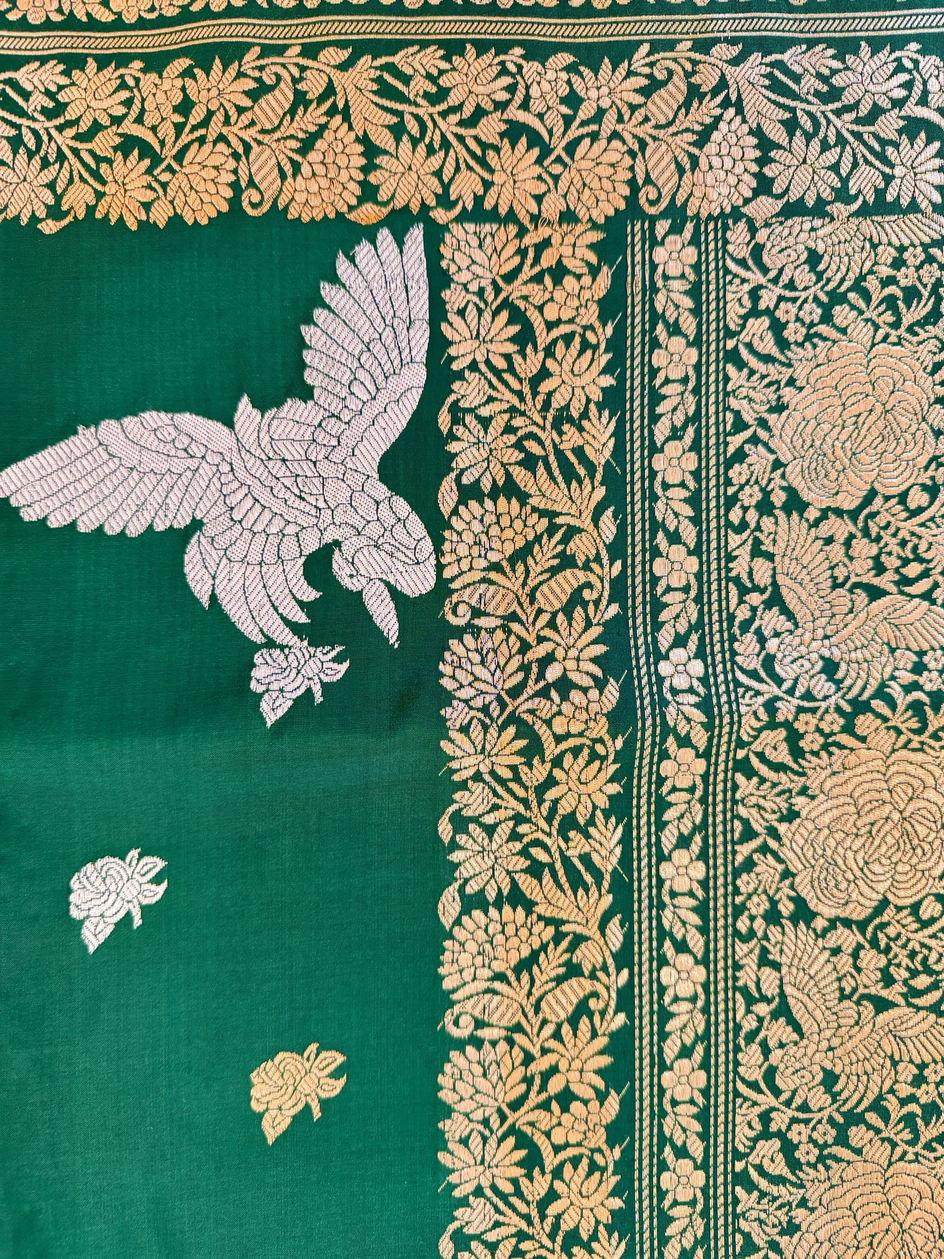
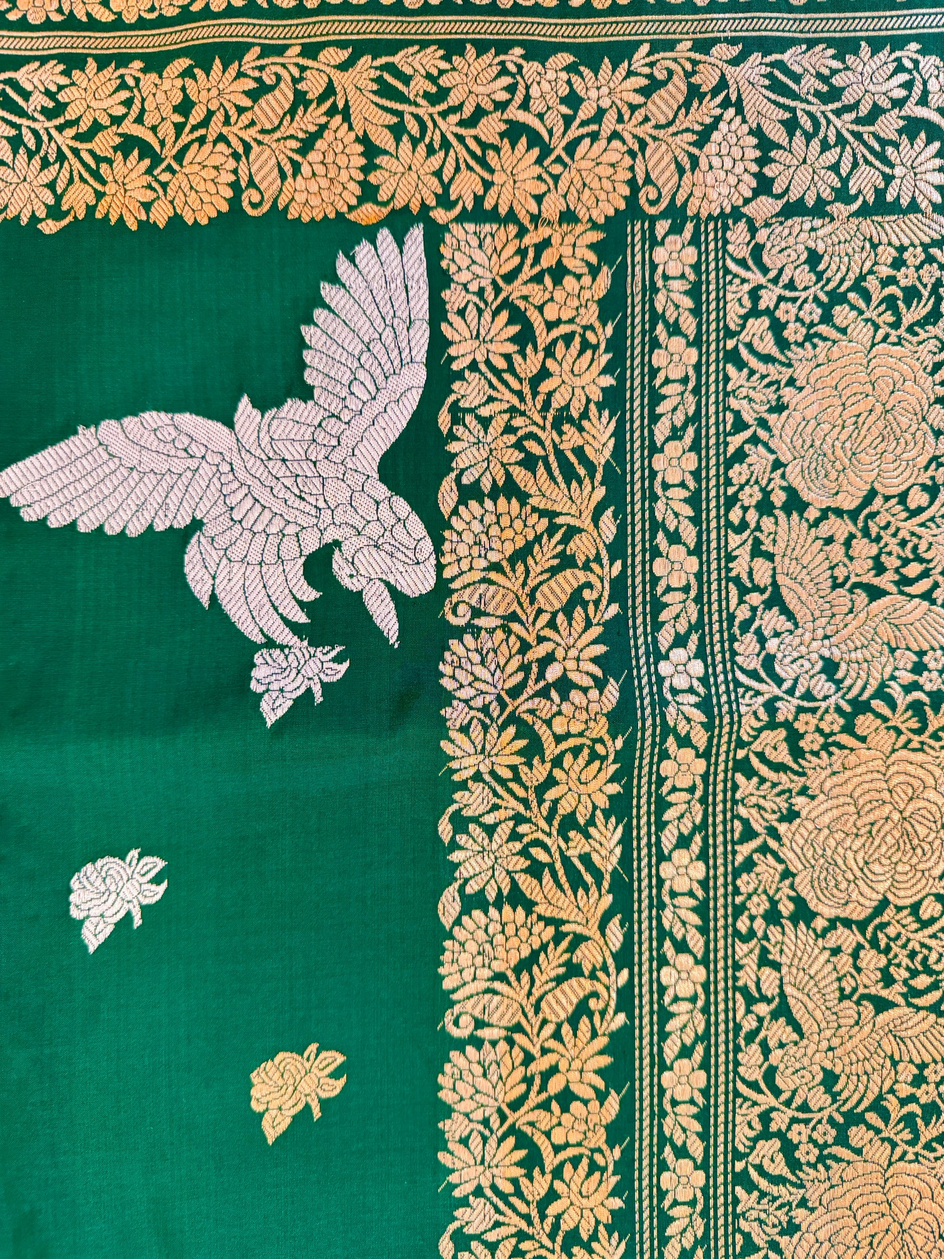
Launch Banarasi collection and refresh homepage hero

diff --git a/assets/css/styles.css b/assets/css/styles.css
@@ -100,14 +100,14 @@
 
 /* Bengal masthead: three linked editorial product tiles */
 .region-coming-board{position:relative;display:grid;place-items:center;isolation:isolate;background:#343216;color:#fff8e9}.region-coming-board:before{content:"";position:absolute;inset:0;z-index:-1;background:repeating-linear-gradient(90deg,transparent 0 9.5%,#d9b66d12 9.5% 10%),linear-gradient(135deg,#343216,#24230f)}.region-coming-board>div{max-width:24rem;padding:clamp(1rem,3vw,2.5rem);text-align:center}.region-coming-board p{margin:0 0 .55rem;color:#d9b66d;font-size:.52rem;font-weight:600;letter-spacing:.16em;text-transform:uppercase}.region-coming-board strong{display:block;font:clamp(1.5rem,3vw,3rem)/.95 var(--serif)}.region-coming-board small{display:block;margin-top:.75rem;color:#e8dcc4;font-size:.58rem;line-height:1.5;letter-spacing:.05em}.loom-line{position:absolute;width:22%;height:1px;background:#d9b66d66}.loom-line:after{content:"✦";position:absolute;top:50%;color:#d9b66d;transform:translateY(-52%);background:#343216;padding:.3rem}.loom-line.line-one{left:5%;top:28%}.loom-line.line-one:after{right:0}.loom-line.line-two{right:5%;bottom:28%}.loom-line.line-two:after{left:0}
-.bengal-feature-board{display:grid;grid-template-columns:repeat(3,1fr);gap:2px;background:#f5ead8}.bengal-feature-board a{position:relative;min-width:0;overflow:hidden;color:#fff8e9;text-decoration:none}.bengal-feature-board img{display:block;transition:scale .6s cubic-bezier(.2,.7,.2,1),filter .35s}.bengal-feature-board a:after{content:"";position:absolute;inset:0;background:linear-gradient(180deg,transparent 42%,#160d08c7);opacity:.72;transition:opacity .3s}.bengal-feature-board a:hover img,.bengal-feature-board a:focus-visible img{scale:1.045;filter:saturate(1.05)}.bengal-feature-board a:hover:after,.bengal-feature-board a:focus-visible:after{opacity:.92}.bengal-feature-board a:focus-visible{z-index:2;outline:3px solid #d9b66d;outline-offset:-3px}.bengal-feature-board span{position:absolute;z-index:2;left:clamp(.7rem,1.15vw,1.15rem);bottom:clamp(.7rem,1.15vw,1.15rem);max-width:calc(100% - 1.4rem);padding:0 0 .55rem;color:#fff8e9;font:clamp(.75rem,1vw,1rem)/1.12 var(--serif);letter-spacing:.02em;text-shadow:0 2px 12px #160d08}.bengal-feature-board span:after{content:"";position:absolute;left:0;bottom:0;width:2.4rem;height:1px;background:#d9b66d;transition:width .35s ease}.bengal-feature-board a:hover span:after,.bengal-feature-board a:focus-visible span:after{width:100%}.bengal-feature-board small{display:block;margin-bottom:.3rem;color:#f0cc7b;font:600 clamp(.42rem,.5vw,.5rem)/1 var(--sans);letter-spacing:.14em;text-transform:uppercase;text-shadow:0 1px 8px #160d08}
+.bengal-feature-board{display:grid;grid-template-columns:repeat(3,1fr);gap:2px;background:#f5ead8}.bengal-feature-board a{position:relative;min-width:0;overflow:hidden;color:#fff8e9;text-decoration:none}.bengal-feature-board img{display:block;transition:scale .6s cubic-bezier(.2,.7,.2,1),filter .35s}.bengal-feature-board a:after{content:"";position:absolute;right:0;bottom:0;left:0;height:34%;background:linear-gradient(180deg,transparent,#160d08a8);opacity:.62;transition:opacity .3s}.bengal-feature-board a:hover img,.bengal-feature-board a:focus-visible img{scale:1.045}.bengal-feature-board a:hover:after,.bengal-feature-board a:focus-visible:after{opacity:.72}.bengal-feature-board a:focus-visible{z-index:2;outline:3px solid #d9b66d;outline-offset:-3px}.bengal-feature-board span{position:absolute;z-index:2;left:clamp(.7rem,1.15vw,1.15rem);bottom:clamp(.7rem,1.15vw,1.15rem);max-width:calc(100% - 1.4rem);padding:.45rem .7rem .55rem;border-left:1px solid #d9b66d;background:linear-gradient(90deg,#21170ccb,#21170c70 72%,transparent);color:#fff8e9;font:clamp(.75rem,1vw,1rem)/1.12 var(--serif);letter-spacing:.02em;text-shadow:0 2px 12px #160d08}.bengal-feature-board span:after{content:"";position:absolute;left:.7rem;bottom:.22rem;width:2.4rem;height:1px;background:#d9b66d;transition:width .35s ease}.bengal-feature-board a:hover span:after,.bengal-feature-board a:focus-visible span:after{width:calc(100% - 1.4rem)}.bengal-feature-board small{display:block;margin-bottom:.3rem;color:#f0cc7b;font:600 clamp(.42rem,.5vw,.5rem)/1 var(--sans);letter-spacing:.14em;text-transform:uppercase;text-shadow:0 1px 8px #160d08}
 .bengal-feature-board.two-up{grid-template-columns:repeat(2,1fr)}
 @media(max-width:700px){.bengal-feature-board{aspect-ratio:1.35/1}.bengal-feature-board span{left:.55rem;right:.4rem;bottom:.55rem;max-width:none;padding:0 0 .42rem;font-size:.66rem}.bengal-feature-board small{font-size:.38rem}}
 
 /* Regional catalogue: isolated product cards */
 .product-sheet[data-layout="photos"] .photo-view{width:100%;height:100%;object-fit:cover;transform:none}.real-product .preview-badge{background:#f5ead8eb;color:#6d100b}
 .preview-section{padding-inline:max(var(--pad),calc((100vw - 1500px)/2))}.preview-section .preview-grid{grid-template-columns:repeat(4,minmax(0,1fr));gap:clamp(1.25rem,2.1vw,2.4rem)}.preview-card{display:block;min-width:0}.preview-card h3{margin:.85rem 0 .25rem;font-size:clamp(1.2rem,1.55vw,1.65rem);line-height:1.05}.preview-card p{line-height:1.5}
-.preview-image.product-sheet{isolation:isolate;aspect-ratio:4/5;overflow:hidden;background:#dfceb2;touch-action:pan-y}.preview-image.product-sheet:after{content:"";position:absolute;z-index:2;inset:0;border:1px solid #d9b66d;background:linear-gradient(180deg,#34321608,#3432161f);box-shadow:inset 0 0 0 5px #f5ead814;opacity:0;pointer-events:none;transition:opacity .28s ease}.product-sheet .sheet-view{position:absolute;inset:0;display:block;max-width:none;object-fit:fill;opacity:0;scale:1;transition:opacity .28s ease,scale .55s cubic-bezier(.2,.7,.2,1);will-change:opacity,scale}.product-sheet[data-layout="grid"] .sheet-view{width:300%;height:200%}.product-sheet[data-layout="strip"] .sheet-view{width:300%;height:100%}
+.preview-image.product-sheet{isolation:isolate;aspect-ratio:4/5;overflow:hidden;background:#dfceb2;touch-action:pan-y}.preview-image.product-sheet:after{content:"";position:absolute;z-index:2;inset:0;border:1px solid #b59053;box-shadow:inset 0 0 0 4px #f5ead81f;opacity:0;pointer-events:none;transition:opacity .28s ease}.product-sheet .sheet-view{position:absolute;inset:0;display:block;max-width:none;object-fit:fill;opacity:0;scale:1;transition:opacity .28s ease,scale .55s cubic-bezier(.2,.7,.2,1);will-change:opacity,scale}.product-sheet[data-layout="grid"] .sheet-view{width:300%;height:200%}.product-sheet[data-layout="strip"] .sheet-view{width:300%;height:100%}
 .product-sheet[data-row="0"] .sheet-view-0,.product-sheet[data-layout="strip"] .sheet-view-0{transform:translate(0,0)}.product-sheet[data-row="0"] .sheet-view-1,.product-sheet[data-layout="strip"] .sheet-view-1{transform:translate(-33.333333%,0)}.product-sheet[data-row="0"] .sheet-view-2,.product-sheet[data-layout="strip"] .sheet-view-2{transform:translate(-66.666667%,0)}.product-sheet[data-row="1"] .sheet-view-0{transform:translate(0,-50%)}.product-sheet[data-row="1"] .sheet-view-1{transform:translate(-33.333333%,-50%)}.product-sheet[data-row="1"] .sheet-view-2{transform:translate(-66.666667%,-50%)}
 .product-sheet .sheet-view.is-active{z-index:1;opacity:1}.preview-card:hover .preview-image.product-sheet:after,.preview-card:focus-visible .preview-image.product-sheet:after,.preview-card:focus-within .preview-image.product-sheet:after{opacity:1}.preview-card:hover .preview-image.product-sheet .sheet-view,.preview-card:focus-visible .preview-image.product-sheet .sheet-view,.preview-card:focus-within .preview-image.product-sheet .sheet-view{scale:1.028}.preview-badge{z-index:3}.preview-count{position:absolute;right:.75rem;bottom:.75rem;z-index:4;padding:.35rem .5rem;background:#f5ead8e8;color:#343216;font-size:.57rem;letter-spacing:.08em}.preview-arrows{position:absolute;inset:50% .65rem auto;z-index:5;display:flex;justify-content:space-between;transform:translateY(-50%);pointer-events:none}.preview-arrows button{display:grid;width:40px;height:40px;padding:0;border:1px solid #34321640;border-radius:50%;place-items:center;background:#f5ead8e8;color:#343216;font:1.55rem/1 var(--serif);box-shadow:0 4px 18px #28180c22;cursor:pointer;pointer-events:auto;opacity:0;transition:opacity .2s,background .2s,color .2s}.preview-image:hover .preview-arrows button,.preview-image:focus-within .preview-arrows button{opacity:1}.preview-arrows button:hover,.preview-arrows button:focus-visible{background:#343216;color:#fff8e9;outline:2px solid #d9b66d;outline-offset:2px}
 @media(hover:none){.preview-card:active .preview-image.product-sheet:after{opacity:1}.preview-card:active .preview-image.product-sheet .sheet-view{scale:1.02}}@media(max-width:1180px){.preview-section .preview-grid{grid-template-columns:repeat(3,minmax(0,1fr))}}@media(max-width:820px){.preview-section .preview-grid{grid-template-columns:repeat(2,minmax(0,1fr));gap:1.15rem}.preview-arrows button{width:44px;height:44px;opacity:1}}@media(max-width:480px){.preview-section{padding-inline:1rem}.preview-section .preview-grid{grid-template-columns:repeat(2,minmax(0,1fr));gap:1.25rem .75rem}.preview-card h3{font-size:1.05rem}.preview-card p{font-size:.66rem}.preview-badge{top:.45rem;left:.45rem;padding:.35rem .45rem}.preview-count{right:.45rem;bottom:.45rem}.preview-arrows{inset-inline:.35rem}.preview-arrows button{width:38px;height:38px}}
@@ -228,4 +228,85 @@
   .preview-section .preview-grid{grid-template-columns:1fr}
   .preview-card h3{font-size:1.35rem}
   .preview-card p{font-size:.76rem}
+}
+
+/* Homepage hero: colour-faithful Banarasi silk with an editorial glass panel. */
+.banarasi-home-hero{
+  isolation:isolate;
+  min-height:clamp(680px,calc(100svh - 166px),940px);
+  background:#7b0908;
+  overflow:hidden;
+}
+.banarasi-home-hero .heritage-art{inset:-1.5%;width:103%;height:103%}
+.banarasi-home-hero .heritage-art img{
+  width:100%;height:100%;object-fit:cover;object-position:center 53%;
+  filter:none!important;opacity:1;
+}
+.banarasi-home-hero .heritage-shade{
+  background:linear-gradient(90deg,rgba(28,10,7,.42) 0%,rgba(28,10,7,.1) 48%,rgba(28,10,7,.03) 72%),
+             linear-gradient(0deg,rgba(28,10,7,.22),transparent 35%);
+}
+.banarasi-home-hero .thread{opacity:.2}
+.banarasi-home-hero .heritage-copy{
+  width:min(650px,56vw);margin-left:var(--pad);padding:clamp(1.8rem,3.4vw,3.25rem);
+  border:1px solid rgba(255,236,199,.42);border-radius:2px;
+  background:linear-gradient(135deg,rgba(39,18,12,.84),rgba(76,18,14,.7));
+  color:#fff8e9;box-shadow:0 28px 70px rgba(34,7,4,.3);
+  -webkit-backdrop-filter:blur(13px) saturate(115%);backdrop-filter:blur(13px) saturate(115%);
+  clip-path:none;
+}
+.banarasi-home-hero .heritage-copy:before{
+  content:"";position:absolute;inset:12px;border:1px solid rgba(232,188,106,.22);pointer-events:none;
+}
+.banarasi-home-hero .hero-signature{display:flex;align-items:baseline;gap:.65rem;margin:0 0 .9rem;color:#fff7e7;font:clamp(1rem,1.45vw,1.25rem)/1 var(--serif);letter-spacing:.035em}
+.banarasi-home-hero .hero-signature span+span{padding-left:.65rem;border-left:1px solid rgba(240,200,126,.55);color:#f0c87e;font-size:.9em}
+.banarasi-home-hero .heritage-copy .eyebrow{color:#f0c87e}
+.banarasi-home-hero .heritage-copy h1{color:#fff9eb;text-shadow:0 2px 22px rgba(24,5,3,.2)}
+.banarasi-home-hero .heritage-copy h1 em{color:#f2c676}
+.banarasi-home-hero .heritage-copy>p:not(.eyebrow){max-width:520px;color:#f9edd9}
+.banarasi-home-hero .hero-actions{display:flex;flex-flow:row wrap;gap:.8rem;margin-top:1.8rem}
+.banarasi-home-hero .hero-cta{
+  position:relative;display:inline-flex;min-height:52px;align-items:center;justify-content:space-between;gap:1.2rem;
+  padding:.9rem 1.15rem;overflow:hidden;border:1px solid rgba(255,239,205,.75);
+  color:#fff8e9;text-decoration:none;font:600 .67rem var(--sans);letter-spacing:.11em;text-transform:uppercase;
+  text-shadow:none;transition:color .3s ease,border-color .3s ease,transform .3s ease,box-shadow .3s ease;
+}
+.banarasi-home-hero .hero-cta span,.banarasi-home-hero .hero-cta i{position:relative;z-index:2}
+.banarasi-home-hero .hero-cta i{font-style:normal;font-size:1.05rem;transition:transform .3s ease}
+.banarasi-home-hero .hero-cta:before{
+  content:"";position:absolute;inset:-2px;background:linear-gradient(105deg,transparent 18%,rgba(255,255,255,.48) 47%,transparent 72%);
+  transform:translateX(-130%) skewX(-16deg);transition:transform .7s cubic-bezier(.2,.7,.2,1);
+}
+.banarasi-home-hero .hero-cta-primary{border-color:#f3d9a4;background:#f3d9a4;color:#45100d;box-shadow:0 10px 30px rgba(30,4,2,.22)}
+.banarasi-home-hero .hero-cta-secondary{background:rgba(255,248,233,.07)}
+.banarasi-home-hero .hero-cta:hover,.banarasi-home-hero .hero-cta:focus-visible{transform:translateY(-3px);box-shadow:0 14px 32px rgba(30,4,2,.3);outline:2px solid #fff8e9;outline-offset:3px}
+.banarasi-home-hero .hero-cta:hover:before,.banarasi-home-hero .hero-cta:focus-visible:before{transform:translateX(130%) skewX(-16deg)}
+.banarasi-home-hero .hero-cta:hover i,.banarasi-home-hero .hero-cta:focus-visible i{transform:translate(3px,2px)}
+.banarasi-home-hero .hero-cta-secondary:hover,.banarasi-home-hero .hero-cta-secondary:focus-visible{background:#fff8e9;color:#45100d}
+.banarasi-home-hero .scroll-cue{color:#fff8e9;text-shadow:0 1px 8px rgba(30,4,2,.7)}
+.banarasi-home-hero .scroll-cue i{background:#f2c676}
+
+@media(max-width:900px){
+  .banarasi-home-hero{min-height:calc(100svh - 86px);padding:clamp(1rem,4vw,2rem) var(--pad) clamp(2.4rem,7vw,4rem);align-items:end}
+  .banarasi-home-hero .heritage-art{inset:0;width:100%;height:100%;transform:none!important}
+  .banarasi-home-hero .heritage-art img{object-position:42% center}
+  .banarasi-home-hero .heritage-shade{background:linear-gradient(0deg,rgba(29,8,5,.6) 0%,rgba(29,8,5,.08) 74%)}
+  .banarasi-home-hero .heritage-copy{width:min(680px,100%);margin:0;padding:clamp(1.55rem,5vw,2.5rem);background:linear-gradient(135deg,rgba(39,18,12,.89),rgba(76,18,14,.79));clip-path:none}
+  .banarasi-home-hero .heritage-copy h1{font-size:clamp(3.5rem,10vw,6rem)}
+  .banarasi-home-hero .scroll-cue{display:none}
+}
+@media(max-width:560px){
+  .banarasi-home-hero{min-height:calc(100svh - 86px);padding:1rem var(--pad) max(1.25rem,env(safe-area-inset-bottom))}
+  .banarasi-home-hero .heritage-art img{object-position:39% center}
+  .banarasi-home-hero .heritage-copy{padding:1.5rem 1.25rem 1.3rem}
+  .banarasi-home-hero .heritage-copy:before{inset:8px}
+  .banarasi-home-hero .hero-signature{margin-bottom:.72rem;font-size:1rem}
+  .banarasi-home-hero .heritage-copy h1{font-size:clamp(3rem,14vw,4.35rem);line-height:.88}
+  .banarasi-home-hero .heritage-copy>p:not(.eyebrow){font-size:.82rem;line-height:1.55}
+  .banarasi-home-hero .hero-actions{display:grid;grid-template-columns:1fr;margin-top:1.25rem}
+  .banarasi-home-hero .hero-cta{width:100%;min-height:50px}
+}
+@media(prefers-reduced-motion:reduce){
+  .banarasi-home-hero .heritage-art{transform:none!important}
+  .banarasi-home-hero .hero-cta,.banarasi-home-hero .hero-cta:before,.banarasi-home-hero .hero-cta i{transition:none}
 }

diff --git a/collections/region-page.js b/collections/region-page.js
@@ -14,7 +14,7 @@ const banarasiProduct=(id,name,design,colors,count)=>({
   details:`Pure silk · ${colors.join(', ')} · GI-tagged Banaras Brocades and Sarees`,
   images:Array.from({length:count},(_,index)=>{
     const number=String(index+1).padStart(2,'0');
-    return {card:`${P}banarasi/${id}/${number}-large.jpg?v=3`,large:`${P}banarasi/${id}/${number}-large.jpg?v=3`};
+    return {card:`${P}banarasi/${id}/${number}-large.jpg?v=4`,large:`${P}banarasi/${id}/${number}-large.jpg?v=4`};
   })
 });
 const regionPages={
@@ -71,7 +71,7 @@ categoryStories.maheshwari={maheshwari:editorial('Maheshwar · Madhya Pradesh','
 const key=document.body.dataset.region,info=regionPages[key],main=document.querySelector('#main-content');
 if(info&&main){
   const panelStyle=info.panel==null?'':`style="width:300%;max-width:none;transform:translateX(-${info.panel*33.333}%);object-fit:cover"`;
-  const featureSets={bengal:[['DHA-003','Dhaniakhali','Fish Motif','/assets/images/products/dhaniakhali/DHA-003/01-card.jpg'],['DHA-005','Dhaniakhali','Ikat Border','/assets/images/products/dhaniakhali/DHA-005/01-card.jpg'],['DHA-007','Dhaniakhali','Traditional','/assets/images/products/dhaniakhali/DHA-007/01-card.jpg']],banarasi:[['BAN-001','Banarasi','Traditional · Red','/assets/images/products/banarasi/BAN-001/01-large.jpg?v=3'],['BAN-002','Banarasi','Traditional · Emerald Green','/assets/images/products/banarasi/BAN-002/01-large.jpg?v=3']]},mastFeatures=featureSets[key];
+  const featureSets={bengal:[['DHA-003','Dhaniakhali','Fish Motif','/assets/images/products/dhaniakhali/DHA-003/01-card.jpg'],['DHA-005','Dhaniakhali','Ikat Border','/assets/images/products/dhaniakhali/DHA-005/01-card.jpg'],['DHA-007','Dhaniakhali','Traditional','/assets/images/products/dhaniakhali/DHA-007/01-card.jpg']],banarasi:[['BAN-001','Banarasi','Traditional · Red','/assets/images/products/banarasi/BAN-001/01-large.jpg?v=4'],['BAN-002','Banarasi','Traditional · Emerald Green','/assets/images/products/banarasi/BAN-002/01-large.jpg?v=4']]},mastFeatures=featureSets[key];
   const mastVisual=mastFeatures?`<div class="region-board bengal-feature-board${mastFeatures.length===2?' two-up':''}" aria-label="Featured ${info.title} sarees">${mastFeatures.map(([id,weave,label,image])=>`<a href="#${info.types[0][1]}" data-feature-product="${id}" aria-label="View ${label} ${weave}, ${id}"><img src="${image}" alt="${label} ${weave} saree"><span><small>${weave}</small>${label}</span></a>`).join('')}</div>`:`<div class="region-board region-coming-board" aria-label="${info.title} collection in preparation"><span class="loom-line line-one"></span><span class="loom-line line-two"></span><div><p>In preparation</p><strong>New pieces,<br>thoughtfully chosen.</strong><small>Real product photography will arrive with the collection.</small></div></div>`;
   const areaFilters=info.groups?`<div class="filter-level" data-area-filters><p>1 · Choose an area</p><div><button data-area="all" aria-pressed="true">All Bengal</button>${info.groups.map(([name,slug])=>`<button data-area="${slug}" aria-pressed="false">${name}</button>`).join('')}</div></div>`:'';
   const typeFilters=`<div class="filter-level" data-type-filters><p>${info.groups?'2 · Choose a weave':'Filter by weave'}</p><div><a href="#all" data-filter="all" data-area="all">All ${info.title.replace(' Handloom','')}</a>${info.types.filter(([,slug])=>slug!=='all').map(([name,slug,area])=>`<a id="filter-${slug}" href="#${slug}" data-filter="${slug}" data-area="${area||'all'}">${name}</a>`).join('')}</div></div>`;

diff --git a/index.html b/index.html
@@ -8,8 +8,8 @@
   <link rel="preconnect" href="https://fonts.googleapis.com">
   <link rel="preconnect" href="https://fonts.gstatic.com" crossorigin>
   <link href="https://fonts.googleapis.com/css2?family=DM+Sans:wght@400;500;600&family=Italiana&display=swap" rel="stylesheet">
-  <link rel="stylesheet" href="assets/css/styles.css?v=20260915-28">
-  <script src="assets/js/main.js?v=20260915-28" defer></script>
+  <link rel="stylesheet" href="assets/css/styles.css?v=20260916-34">
+  <script src="assets/js/main.js?v=20260916-34" defer></script>
 </head>
 <body>
   <a class="skip-link" href="#main-content">Skip to content</a>
@@ -22,15 +22,16 @@
   <div class="value-tags" aria-label="Kiranlata values"><span>Handloom</span><span>Natural cotton &amp; silk</span><span>Never synthetics</span><span>New York</span></div>
 
   <main id="main-content">
-    <section class="heritage-hero" data-parallax-scene>
-      <div class="heritage-art" data-layer="1"><img src="assets/images/story/weaving-village.png" alt="Illustrated village weaving courtyard where artisans work at traditional handlooms"></div>
+    <section class="heritage-hero banarasi-home-hero" data-parallax-scene>
+      <div class="heritage-art" data-layer="1"><img src="assets/images/branding/kiranlata-hero-banarasi.jpg?v=1" alt="Red pure-silk Banarasi saree with an intricate floral brocade border"></div>
       <div class="heritage-shade"></div>
       <div class="thread thread-one" data-layer="3"></div><div class="thread thread-two" data-layer="4"></div>
       <div class="heritage-copy reveal">
+        <p class="hero-signature"><span>Kiranlata</span><span lang="bn">কিরণলতা</span></p>
         <p class="eyebrow">From the looms of India &amp; Bangladesh · To New York</p>
         <h1>A way of life,<br><em>woven in six yards.</em></h1>
         <p>Kiranlata brings distinctive handloom sarees—and the human stories within them—to women across the United States.</p>
-        <div class="hero-actions"><a class="button primary" href="#collections">Shop the collection <span>↘</span></a><a class="text-link" href="/history.html">Explore the heritage</a></div>
+        <div class="hero-actions"><a class="hero-cta hero-cta-primary" href="#collections"><span>Shop the collection</span><i aria-hidden="true">↘</i></a><a class="hero-cta hero-cta-secondary" href="/history.html"><span>Explore the heritage</span><i aria-hidden="true">→</i></a></div>
       </div>
       <div class="heritage-seal" data-layer="5"><span>HANDLOOM</span><b>✦</b><span>NO SYNTHETICS</span></div>
       <a class="scroll-cue" href="#promise">Follow the thread <i></i></a>

diff --git a/collections/south-india.html b/collections/south-india.html
@@ -1,1 +1,1 @@
-<!doctype html><html lang="en"><head><meta charset="UTF-8"><meta name="viewport" content="width=device-width,initial-scale=1"><title>South Indian Handloom | Kiranlata</title><link rel="icon" href="/assets/images/branding/kiranlata-logo.svg" type="image/svg+xml"><link rel="preconnect" href="https://fonts.googleapis.com"><link rel="preconnect" href="https://fonts.gstatic.com" crossorigin><link href="https://fonts.googleapis.com/css2?family=DM+Sans:wght@400;500;600&family=Italiana&display=swap" rel="stylesheet"><link rel="stylesheet" href="/assets/css/styles.css?v=20260915-29"><script src="/assets/js/main.js?v=20260915-29" defer></script><script src="/collections/region-page.js?v=20260915-29" defer></script></head><body data-region="south-india"><a class="skip-link" href="#main-content">Skip to content</a><header class="site-header"></header><main id="main-content" class="region-page"></main></body></html>
+<!doctype html><html lang="en"><head><meta charset="UTF-8"><meta name="viewport" content="width=device-width,initial-scale=1"><title>South Indian Handloom | Kiranlata</title><link rel="icon" href="/assets/images/branding/kiranlata-logo.svg" type="image/svg+xml"><link rel="preconnect" href="https://fonts.googleapis.com"><link rel="preconnect" href="https://fonts.gstatic.com" crossorigin><link href="https://fonts.googleapis.com/css2?family=DM+Sans:wght@400;500;600&family=Italiana&display=swap" rel="stylesheet"><link rel="stylesheet" href="/assets/css/styles.css?v=20260915-30"><script src="/assets/js/main.js?v=20260915-30" defer></script><script src="/collections/region-page.js?v=20260915-30" defer></script></head><body data-region="south-india"><a class="skip-link" href="#main-content">Skip to content</a><header class="site-header"></header><main id="main-content" class="region-page"></main></body></html>

diff --git a/collections/kanchipuram.html b/collections/kanchipuram.html
@@ -1,1 +1,1 @@
-<!doctype html><html lang="en"><head><meta charset="UTF-8"><meta name="viewport" content="width=device-width,initial-scale=1"><title>Kanchipuram | Kiranlata</title><link rel="icon" href="/assets/images/branding/kiranlata-logo.svg" type="image/svg+xml"><link rel="preconnect" href="https://fonts.googleapis.com"><link rel="preconnect" href="https://fonts.gstatic.com" crossorigin><link href="https://fonts.googleapis.com/css2?family=DM+Sans:wght@400;500;600&family=Italiana&display=swap" rel="stylesheet"><link rel="stylesheet" href="/assets/css/styles.css?v=20260915-29"><script src="/assets/js/main.js?v=20260915-29" defer></script><script src="/collections/region-page.js?v=20260915-29" defer></script></head><body data-region="kanchipuram"><a class="skip-link" href="#main-content">Skip to content</a><header class="site-header"></header><main id="main-content" class="region-page"></main></body></html>
+<!doctype html><html lang="en"><head><meta charset="UTF-8"><meta name="viewport" content="width=device-width,initial-scale=1"><title>Kanchipuram | Kiranlata</title><link rel="icon" href="/assets/images/branding/kiranlata-logo.svg" type="image/svg+xml"><link rel="preconnect" href="https://fonts.googleapis.com"><link rel="preconnect" href="https://fonts.gstatic.com" crossorigin><link href="https://fonts.googleapis.com/css2?family=DM+Sans:wght@400;500;600&family=Italiana&display=swap" rel="stylesheet"><link rel="stylesheet" href="/assets/css/styles.css?v=20260915-30"><script src="/assets/js/main.js?v=20260915-30" defer></script><script src="/collections/region-page.js?v=20260915-30" defer></script></head><body data-region="kanchipuram"><a class="skip-link" href="#main-content">Skip to content</a><header class="site-header"></header><main id="main-content" class="region-page"></main></body></html>

diff --git a/collections/bengal.html b/collections/bengal.html
@@ -1,1 +1,1 @@
-<!doctype html><html lang="en"><head><meta charset="UTF-8"><meta name="viewport" content="width=device-width,initial-scale=1"><title>Bengal Handloom | Kiranlata</title><link rel="icon" href="/assets/images/branding/kiranlata-logo.svg" type="image/svg+xml"><link rel="preconnect" href="https://fonts.googleapis.com"><link rel="preconnect" href="https://fonts.gstatic.com" crossorigin><link href="https://fonts.googleapis.com/css2?family=DM+Sans:wght@400;500;600&family=Italiana&display=swap" rel="stylesheet"><link rel="stylesheet" href="/assets/css/styles.css?v=20260915-29"><script src="/assets/js/main.js?v=20260915-29" defer></script><script src="/collections/region-page.js?v=20260915-29" defer></script></head><body data-region="bengal"><a class="skip-link" href="#main-content">Skip to content</a><header class="site-header"></header><main id="main-content" class="region-page"></main></body></html>
+<!doctype html><html lang="en"><head><meta charset="UTF-8"><meta name="viewport" content="width=device-width,initial-scale=1"><title>Bengal Handloom | Kiranlata</title><link rel="icon" href="/assets/images/branding/kiranlata-logo.svg" type="image/svg+xml"><link rel="preconnect" href="https://fonts.googleapis.com"><link rel="preconnect" href="https://fonts.gstatic.com" crossorigin><link href="https://fonts.googleapis.com/css2?family=DM+Sans:wght@400;500;600&family=Italiana&display=swap" rel="stylesheet"><link rel="stylesheet" href="/assets/css/styles.css?v=20260915-30"><script src="/assets/js/main.js?v=20260915-30" defer></script><script src="/collections/region-page.js?v=20260915-30" defer></script></head><body data-region="bengal"><a class="skip-link" href="#main-content">Skip to content</a><header class="site-header"></header><main id="main-content" class="region-page"></main></body></html>

diff --git a/collections/odisha.html b/collections/odisha.html
@@ -1,1 +1,1 @@
-<!doctype html><html lang="en"><head><meta charset="UTF-8"><meta name="viewport" content="width=device-width,initial-scale=1"><title>Odisha Handloom | Kiranlata</title><link rel="icon" href="/assets/images/branding/kiranlata-logo.svg" type="image/svg+xml"><link rel="preconnect" href="https://fonts.googleapis.com"><link rel="preconnect" href="https://fonts.gstatic.com" crossorigin><link href="https://fonts.googleapis.com/css2?family=DM+Sans:wght@400;500;600&family=Italiana&display=swap" rel="stylesheet"><link rel="stylesheet" href="/assets/css/styles.css?v=20260915-29"><script src="/assets/js/main.js?v=20260915-29" defer></script><script src="/collections/region-page.js?v=20260915-29" defer></script></head><body data-region="odisha"><a class="skip-link" href="#main-content">Skip to content</a><header class="site-header"></header><main id="main-content" class="region-page"></main></body></html>
+<!doctype html><html lang="en"><head><meta charset="UTF-8"><meta name="viewport" content="width=device-width,initial-scale=1"><title>Odisha Handloom | Kiranlata</title><link rel="icon" href="/assets/images/branding/kiranlata-logo.svg" type="image/svg+xml"><link rel="preconnect" href="https://fonts.googleapis.com"><link rel="preconnect" href="https://fonts.gstatic.com" crossorigin><link href="https://fonts.googleapis.com/css2?family=DM+Sans:wght@400;500;600&family=Italiana&display=swap" rel="stylesheet"><link rel="stylesheet" href="/assets/css/styles.css?v=20260915-30"><script src="/assets/js/main.js?v=20260915-30" defer></script><script src="/collections/region-page.js?v=20260915-30" defer></script></head><body data-region="odisha"><a class="skip-link" href="#main-content">Skip to content</a><header class="site-header"></header><main id="main-content" class="region-page"></main></body></html>

diff --git a/collections/maheshwari.html b/collections/maheshwari.html
@@ -1,1 +1,1 @@
-<!doctype html><html lang="en"><head><meta charset="UTF-8"><meta name="viewport" content="width=device-width,initial-scale=1"><title>Maheshwari | Kiranlata</title><link rel="icon" href="/assets/images/branding/kiranlata-logo.svg" type="image/svg+xml"><link rel="preconnect" href="https://fonts.googleapis.com"><link rel="preconnect" href="https://fonts.gstatic.com" crossorigin><link href="https://fonts.googleapis.com/css2?family=DM+Sans:wght@400;500;600&family=Italiana&display=swap" rel="stylesheet"><link rel="stylesheet" href="/assets/css/styles.css?v=20260915-29"><script src="/assets/js/main.js?v=20260915-29" defer></script><script src="/collections/region-page.js?v=20260915-29" defer></script></head><body data-region="maheshwari"><a class="skip-link" href="#main-content">Skip to content</a><header class="site-header"></header><main id="main-content" class="region-page"></main></body></html>
+<!doctype html><html lang="en"><head><meta charset="UTF-8"><meta name="viewport" content="width=device-width,initial-scale=1"><title>Maheshwari | Kiranlata</title><link rel="icon" href="/assets/images/branding/kiranlata-logo.svg" type="image/svg+xml"><link rel="preconnect" href="https://fonts.googleapis.com"><link rel="preconnect" href="https://fonts.gstatic.com" crossorigin><link href="https://fonts.googleapis.com/css2?family=DM+Sans:wght@400;500;600&family=Italiana&display=swap" rel="stylesheet"><link rel="stylesheet" href="/assets/css/styles.css?v=20260915-30"><script src="/assets/js/main.js?v=20260915-30" defer></script><script src="/collections/region-page.js?v=20260915-30" defer></script></head><body data-region="maheshwari"><a class="skip-link" href="#main-content">Skip to content</a><header class="site-header"></header><main id="main-content" class="region-page"></main></body></html>

diff --git a/collections/banarasi.html b/collections/banarasi.html
@@ -1,1 +1,1 @@
-<!doctype html><html lang="en"><head><meta charset="UTF-8"><meta name="viewport" content="width=device-width,initial-scale=1"><title>Banarasi | Kiranlata</title><link rel="icon" href="/assets/images/branding/kiranlata-logo.svg" type="image/svg+xml"><link rel="preconnect" href="https://fonts.googleapis.com"><link rel="preconnect" href="https://fonts.gstatic.com" crossorigin><link href="https://fonts.googleapis.com/css2?family=DM+Sans:wght@400;500;600&family=Italiana&display=swap" rel="stylesheet"><link rel="stylesheet" href="/assets/css/styles.css?v=20260915-29"><script src="/assets/js/main.js?v=20260915-29" defer></script><script src="/collections/region-page.js?v=20260915-29" defer></script></head><body data-region="banarasi"><a class="skip-link" href="#main-content">Skip to content</a><header class="site-header"></header><main id="main-content" class="region-page"></main></body></html>
+<!doctype html><html lang="en"><head><meta charset="UTF-8"><meta name="viewport" content="width=device-width,initial-scale=1"><title>Banarasi | Kiranlata</title><link rel="icon" href="/assets/images/branding/kiranlata-logo.svg" type="image/svg+xml"><link rel="preconnect" href="https://fonts.googleapis.com"><link rel="preconnect" href="https://fonts.gstatic.com" crossorigin><link href="https://fonts.googleapis.com/css2?family=DM+Sans:wght@400;500;600&family=Italiana&display=swap" rel="stylesheet"><link rel="stylesheet" href="/assets/css/styles.css?v=20260915-30"><script src="/assets/js/main.js?v=20260915-30" defer></script><script src="/collections/region-page.js?v=20260915-30" defer></script></head><body data-region="banarasi"><a class="skip-link" href="#main-content">Skip to content</a><header class="site-header"></header><main id="main-content" class="region-page"></main></body></html>
